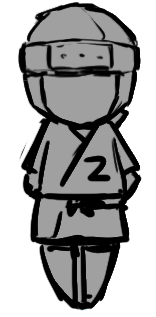
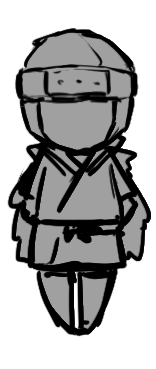
1

diff --git a/js/slot.js b/js/slot.js
@@ -555,7 +555,7 @@ function slotLoop() {
         if (img.complete && img.naturalWidth > 0) {
             const nw = img.naturalWidth;
             const nh = img.naturalHeight;
-            sCtx.drawImage(img, reels[i].x - nw / 2, reels[i].y - nh / 6.5 - 15, nw, nh);
+            sCtx.drawImage(img, reels[i].x - nw / 2, reels[i].y - nh / 5.0 - 15, nw, nh);
         }
     }
     sCtx.save();
